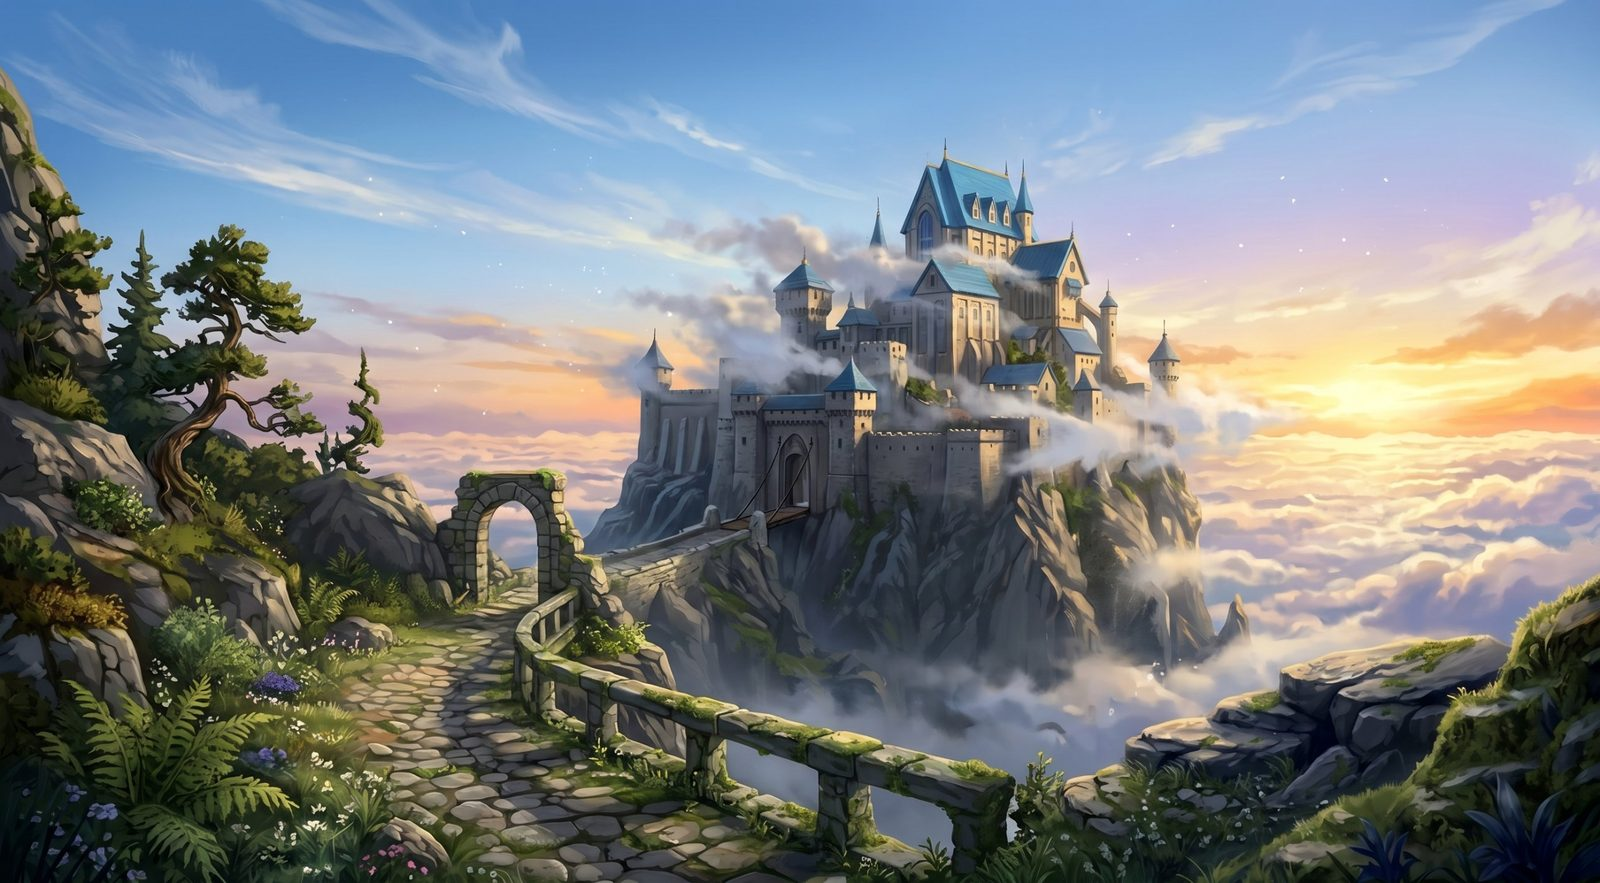
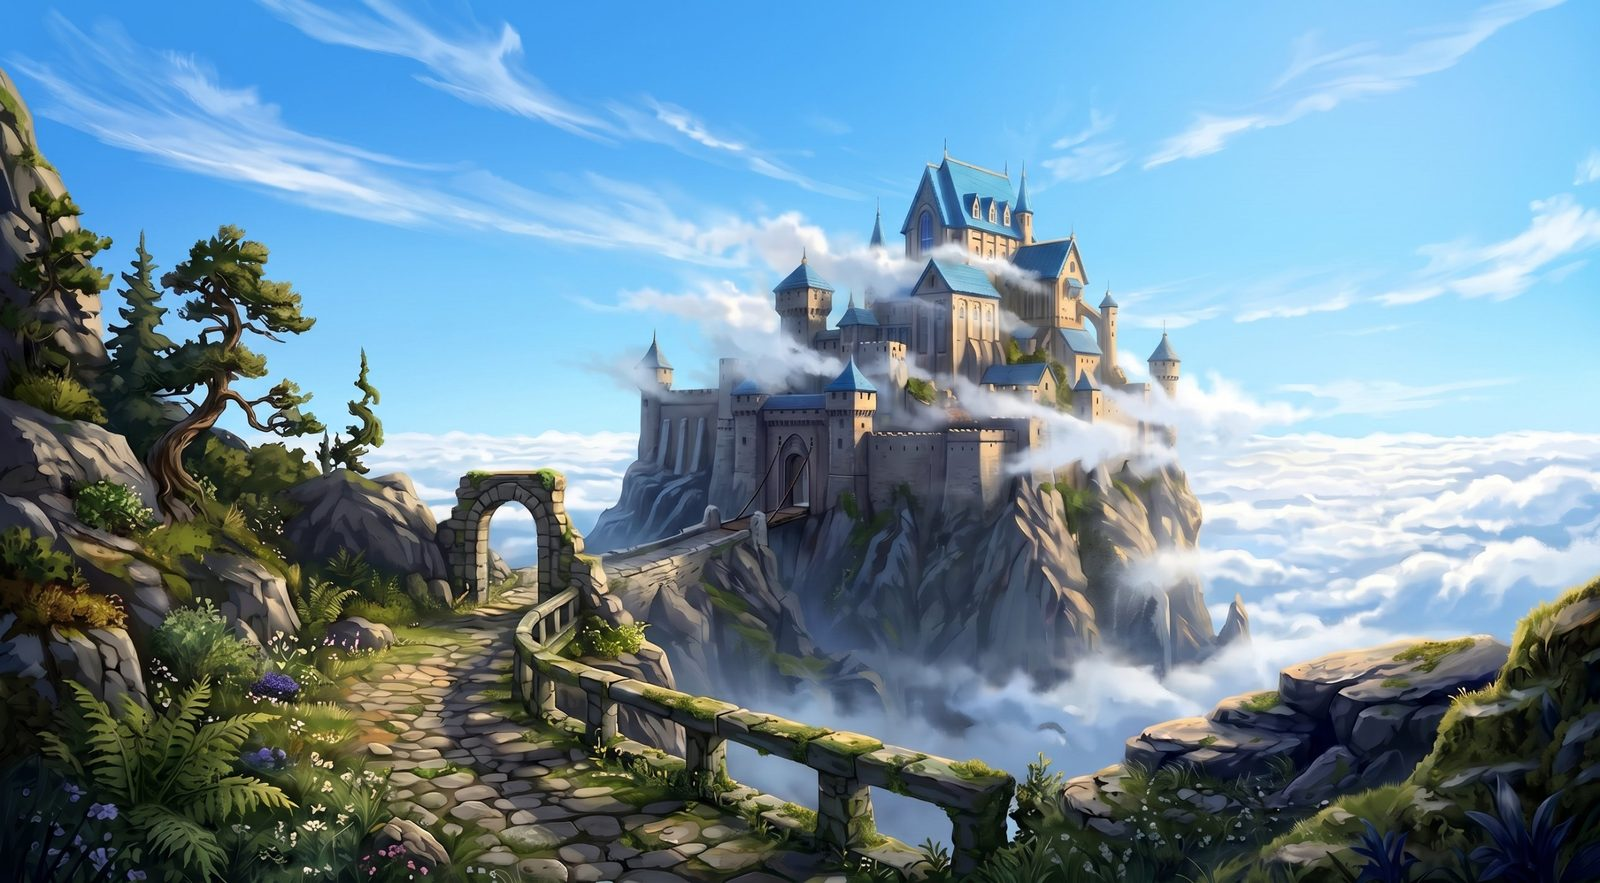
冒険7面（天空の城）の朝・昼・夕方・夜の画像を追加
Claude-Session: https://claude.ai/code/session_01EftAGzqa5a4WGGvn4eGGrQ

diff --git a/index.html b/index.html
@@ -8247,7 +8247,7 @@ const Cloud = (function () {
         { key: 'hill',     imgs: ['morning', 'day', 'evening', 'night'], tod: .3,  name: '星降る丘',     icon: '⛰', goal: '🔭', tint: '#c9a6ff', enc: ['⭐ 流れ星が言葉を落としていった', '🐑 羊飼いの少年が道をたずねた', '🌙 月の精がささやいた', '🪁 風に乗って手紙が飛んできた'] },
         { key: 'ruins',    imgs: ['morning', 'day', 'evening', 'night'], tod: 1,   name: '古代の遺跡',   icon: '🏛', goal: '📜', tint: '#e8b850', enc: ['🗿 石像が口を開いた', '📜 古文書の一節が読めそうだ', '🐍 封印の蛇が合言葉を求めている', '🏺 壺の底に文字が刻まれている'] },
         { key: 'mountain', imgs: ['morning', 'day', 'evening', 'night'], tod: 1,   name: '竜の山脈',     icon: '🐉', goal: '🥚', tint: '#ff8a60', enc: ['🔥 竜の吐息で道が熱い…', '🦅 大鷲が試練を与えた', '⛏ 鉱夫が岩に刻んだ言葉を見せた', '🌋 火山の精霊が問いかけた'] },
-        { key: 'castle',   imgs: ['day'], tod: 1,   name: '天空の城',     icon: '🏰', goal: '👑', tint: '#80e0ff', enc: ['☁ 雲の門番が合言葉を問う', '👑 王の書庫で不思議な本を見つけた', '🕊 白い鳩が手紙を運んできた', '🔔 塔の鐘に言葉が刻まれている'] },
+        { key: 'castle',   imgs: ['morning', 'day', 'evening', 'night'], tod: 1,   name: '天空の城',     icon: '🏰', goal: '👑', tint: '#80e0ff', enc: ['☁ 雲の門番が合言葉を問う', '👑 王の書庫で不思議な本を見つけた', '🕊 白い鳩が手紙を運んできた', '🔔 塔の鐘に言葉が刻まれている'] },
     ];
     // 保存されている地域（「はじまりの草原」を先頭に追加したので、以前の番号は1つずらす）
     function advStoredArea() {
